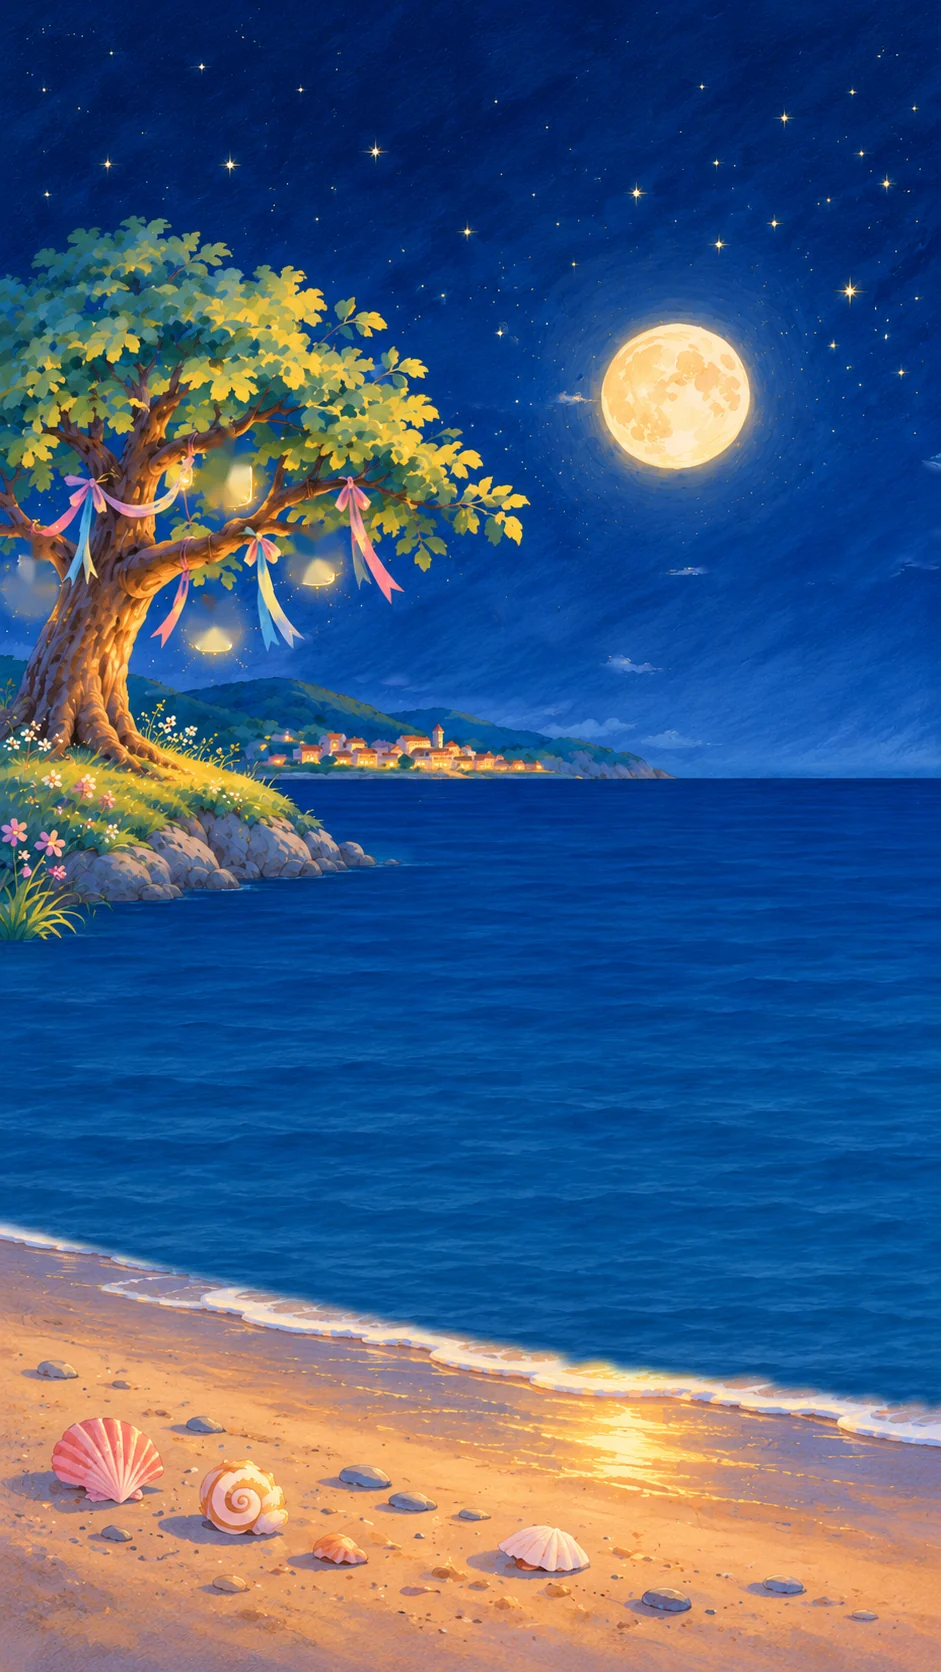
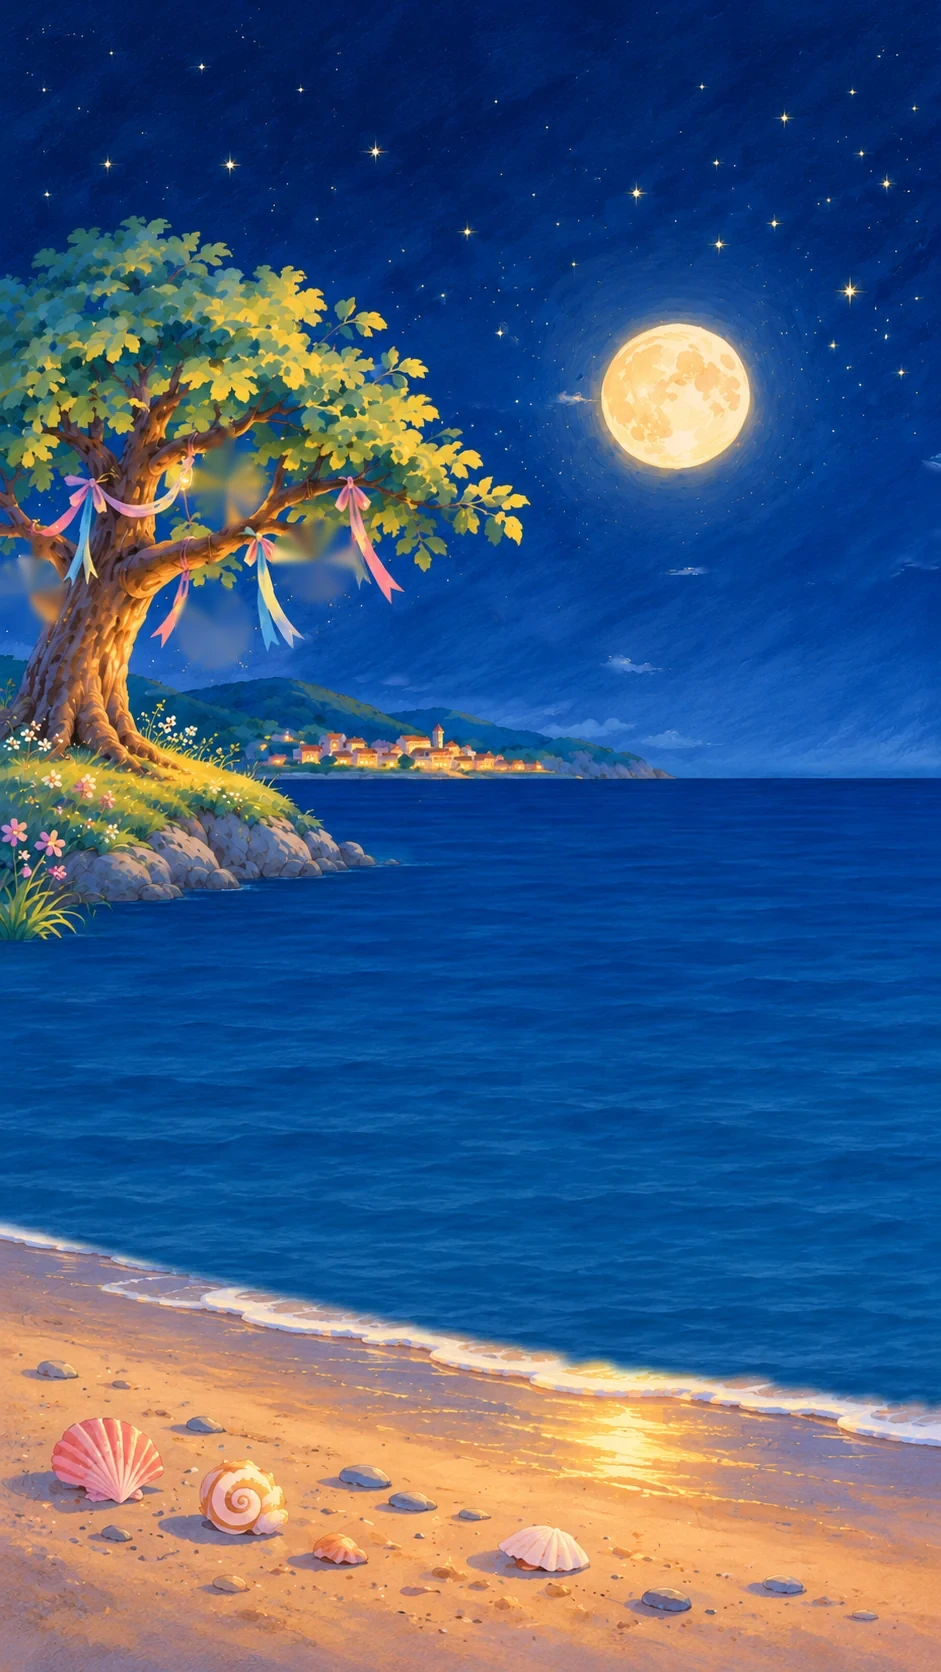
Mobile fixes: wishes load state, bird on Ch4, grounded Ch5 characters, Ch6 ribbons/jars/clouds
- Ch7: 'Gathering the wishes…' while loading; 'No wishes yet' only when there are none.
  Wishes are cached and prefetched on Ch6. 'Add yours' opens the Leave a wish tab.
- Ch4: the flying ribbon is now a flapping bird.
- Ch5: Chihiro and No-Face stand on one step with contact shadows.
- Ch6: leftover jar smudges removed from the painting, ribbons flutter, clouds drift visibly.

diff --git a/src/scenes/WishesDesktop.jsx b/src/scenes/WishesDesktop.jsx
@@ -4,7 +4,7 @@ import React from 'react';
 import { gsap } from 'gsap';
 import { Link } from 'react-router-dom';
 import { css } from '../lib/css.js';
-import { getWishes } from '../lib/rsvpApi.js';
+import { getWishes, peekWishes } from '../lib/rsvpApi.js';
 import './WishesDesktop.css';
 
 export default class WishesDesktop extends React.Component {
@@ -13,12 +13,13 @@ export default class WishesDesktop extends React.Component {
   constructor(props) {
     super(props);
     /* wishes sent from Chapter 6, loaded from the Google Sheet (wishes.csv in local dev) */
-    this.wishes = [];
-    this.state = { i: 0 };
+    var known = peekWishes(); // already loaded (e.g. on Chapter 6): show them straight away
+    this.wishes = known ? known.slice().reverse() : []; /* newest first */
+    this.state = { i: 0, loaded: !!known };
     this.root = null; this.tweens = []; this.tries = 0;
   }
   componentDidMount() {
-    var selfW = this; getWishes().then(function (list) { if (selfW.gone) return; selfW.wishes = list.slice().reverse(); selfW.setState({ i: 0 }); }).catch(function () {});  /* newest first */ this.initTrailSoon(); this.boot(); }
+    var selfW = this; getWishes().then(function (list) { if (selfW.gone) return; var same = selfW.state.loaded && list.length === selfW.wishes.length; selfW.wishes = list.slice().reverse(); if (same) selfW.setState({ loaded: true }); else selfW.setState({ i: 0, loaded: true }); }).catch(function () { if (!selfW.gone) selfW.setState({ loaded: true }); });  /* newest first */ this.initTrailSoon(); this.boot(); }
   componentWillUnmount() { this.gone = true; if (this.onMove && this.root) { this.root.removeEventListener('pointermove', this.onMove); this.root.removeEventListener('pointerleave', this.onLeave); this.root.removeEventListener('pointerdown', this.onDown); } clearTimeout(this.retry); clearInterval(this.auto); if (this.io) this.io.disconnect(); this.tweens.forEach(function (t) { t.kill(); }); }
   reduced() { try { return window.matchMedia('(prefers-reduced-motion: reduce)').matches; } catch (e) { return false; } }
   /* the card flutters over like a page in the wind as it shows the next wish */
@@ -163,7 +164,7 @@ export default class WishesDesktop extends React.Component {
   initTrailSoon() { var self = this, tries = 0; (function go() { if (self.root && gsap) self.initTrail(); else if (tries++ < 30) setTimeout(go, 150); })(); }
 
   renderVals() {
-    var self = this, n = this.wishes.length, w = this.wishes[this.state.i] || { text: 'No wishes yet. Be the first to leave one!', name: 'Dylan' };
+    var self = this, n = this.wishes.length, w = this.wishes[this.state.i] || (this.state.loaded ? { text: 'No wishes yet. Be the first to leave one!', name: 'Dylan' } : { text: 'Gathering the wishes…', name: 'Dylan' });
     return {
       setRoot: function (el) { self.root = el; },
       goNext: function () { self.goNext(); },
@@ -260,7 +261,7 @@ export default class WishesDesktop extends React.Component {
               Chapter 7 of 8
             </p>
           </div>
-          <Link to="/rsvp" className="leave">
+          <Link to={{ pathname: '/rsvp', search: '?tab=wish' }} className="leave">
             Leave a wish
           </Link>
           <button className="next" type="button" onClick={v.goNext}>

diff --git a/src/scenes/RsvpMobile.jsx b/src/scenes/RsvpMobile.jsx
@@ -10,9 +10,12 @@ import './RsvpMobile.css';
 export default class RsvpMobile extends React.Component {
   static defaultProps = {};
 
+  // "Add yours" on Chapter 7 links here with ?tab=wish to open the Leave a wish tab
+  static openTab() { try { return new URLSearchParams(window.location.search).get('tab') === 'wish' ? 'wish' : 'rsvp'; } catch (e) { return 'rsvp'; } }
+
   constructor(props) {
     super(props);
-    this.state = { tab: 'rsvp', dir: 1, attend: 'yes', count: 1, sent: false, sentName: '', sentAttend: 'yes', sentCount: 1, err: '', werr: '', wishes: [] };
+    this.state = { tab: RsvpMobile.openTab(), dir: 1, attend: 'yes', count: 1, sent: false, sentName: '', sentAttend: 'yes', sentCount: 1, err: '', werr: '', wishes: [] };
     this.root = null;
     this.tweens = [];
     this.tries = 0;
@@ -95,7 +98,7 @@ export default class RsvpMobile extends React.Component {
   /* the shore at night: clouds drift, moonlight ripples, waves wash in, jars sway and glow, stars twinkle, wish-lights rise */
   ambient(g, q, qa, t) {
     var sf = q('.scenefit'), SW = sf ? sf.offsetWidth : 499, SH = sf ? sf.offsetHeight : 886, f = SH / 886;
-    t.push(g.to(q('.clouds'), { x: 24 * f, duration: 30, ease: 'sine.inOut', yoyo: true, repeat: -1 }));
+    t.push(g.to(q('.clouds'), { x: 46 * f, duration: 20, ease: 'sine.inOut', yoyo: true, repeat: -1 }));
     t.push(g.fromTo(q('.foam'), { x: 0, y: 0, opacity: 0.8 }, { x: -3 * f, y: 3 * f, opacity: 1, duration: 3.4, ease: 'sine.inOut', yoyo: true, repeat: -1 }));
     t.push(g.fromTo(q('.sea'), { y: 0 }, { y: 1.2 * f, duration: 3.4, ease: 'sine.inOut', yoyo: true, repeat: -1 }));
     // each jar swings on its own string, slightly out of step with the others
@@ -278,6 +281,11 @@ export default class RsvpMobile extends React.Component {
             <div className="ly sea" />
             <div className="ly sea2" />
             <div className="ly foam" />
+            {/* the ribbons on the tree flutter: short looping clips of just those bits of the painting */}
+            <i className="ribsway" style={{"left":"5.526%","top":"28.349%","width":"6.376%","height":"7.536%","backgroundImage":"url(/art/mobile/ch6m-ribbon-a.webp)"}} />
+            <i className="ribsway" style={{"left":"14.878%","top":"31.699%","width":"6.908%","height":"7.536%","backgroundImage":"url(/art/mobile/ch6m-ribbon-b.webp)"}} />
+            <i className="ribsway" style={{"left":"24.442%","top":"30.981%","width":"9.139%","height":"8.732%","backgroundImage":"url(/art/mobile/ch6m-ribbon-c.webp)"}} />
+            <i className="ribsway" style={{"left":"34.219%","top":"28.11%","width":"9.883%","height":"8.971%","backgroundImage":"url(/art/mobile/ch6m-ribbon-d.webp)"}} />
             <span className="jglow" style={{"left":"24.12%","top":"28.46%"}} />
             <span className="jglow" style={{"left":"3.19%","top":"34.90%"}} />
             <span className="jglow" style={{"left":"33.53%","top":"32.82%"}} />

diff --git a/src/scenes/WishesMobile.jsx b/src/scenes/WishesMobile.jsx
@@ -4,7 +4,7 @@ import React from 'react';
 import { gsap } from 'gsap';
 import { Link } from 'react-router-dom';
 import { css } from '../lib/css.js';
-import { getWishes } from '../lib/rsvpApi.js';
+import { getWishes, peekWishes } from '../lib/rsvpApi.js';
 import './WishesMobile.css';
 
 export default class WishesMobile extends React.Component {
@@ -13,12 +13,13 @@ export default class WishesMobile extends React.Component {
   constructor(props) {
     super(props);
     /* wishes sent from Chapter 6, loaded from the Google Sheet (wishes.csv in local dev) */
-    this.wishes = [];
-    this.state = { i: 0 };
+    var known = peekWishes(); // already loaded (e.g. on Chapter 6): show them straight away
+    this.wishes = known ? known.slice().reverse() : []; /* newest first */
+    this.state = { i: 0, loaded: !!known };
     this.root = null; this.tweens = []; this.tries = 0;
   }
   componentDidMount() {
-    var selfW = this; getWishes().then(function (list) { if (selfW.gone) return; selfW.wishes = list.slice().reverse(); selfW.setState({ i: 0 }); }).catch(function () {});  /* newest first */ this.initTrailSoon(); this.fit(); this.boot(); }
+    var selfW = this; getWishes().then(function (list) { if (selfW.gone) return; var same = selfW.state.loaded && list.length === selfW.wishes.length; selfW.wishes = list.slice().reverse(); if (same) selfW.setState({ loaded: true }); else selfW.setState({ i: 0, loaded: true }); }).catch(function () { if (!selfW.gone) selfW.setState({ loaded: true }); });  /* newest first */ this.initTrailSoon(); this.fit(); this.boot(); }
   /* scale the girl and her wish card to the screen: fit the width, and leave room for the title above and the footer below */
   fit() {
     var self = this, r = this.root;
@@ -181,7 +182,7 @@ export default class WishesMobile extends React.Component {
   initTrailSoon() { var self = this, tries = 0; (function go() { if (self.root && gsap) self.initTrail(); else if (tries++ < 30) setTimeout(go, 150); })(); }
 
   renderVals() {
-    var self = this, n = this.wishes.length, w = this.wishes[this.state.i] || { text: 'No wishes yet. Be the first to leave one!', name: 'Dylan' };
+    var self = this, n = this.wishes.length, w = this.wishes[this.state.i] || (this.state.loaded ? { text: 'No wishes yet. Be the first to leave one!', name: 'Dylan' } : { text: 'Gathering the wishes…', name: 'Dylan' });
     return {
       setRoot: function (el) { self.root = el; },
       goNext: function () { self.goNext(); },
@@ -280,7 +281,7 @@ export default class WishesMobile extends React.Component {
               Chapter 7 of 8
             </p>
           </div>
-          <Link to="/rsvp" className="leave">
+          <Link to={{ pathname: '/rsvp', search: '?tab=wish' }} className="leave">
             Add yours
           </Link>
           <button className="next" type="button" onClick={v.goNext}>

diff --git a/src/scenes/DressCodeMobile.jsx b/src/scenes/DressCodeMobile.jsx
@@ -72,8 +72,9 @@ export default class DressCodeMobile extends React.Component {
     Array.prototype.forEach.call(qa('.lantern'), function (l, i) {
       t.push(g.fromTo(l, { opacity: 0.55, scale: 0.9 }, { opacity: 1, scale: 1.12, duration: 1.8 + i * 0.4, ease: 'sine.inOut', yoyo: true, repeat: -1 }));
     });
-    t.push(g.fromTo(q('.rb1'), { x: -90, y: 70, rotation: -10 }, { x: W + 30, y: 30, rotation: 20, duration: 24, ease: 'sine.inOut', repeat: -1, repeatDelay: 6 }));
-    t.push(g.to(q('.rb1'), { scaleY: -1, duration: 1.6, ease: 'sine.inOut', yoyo: true, repeat: -1 }));
+    t.push(g.fromTo(q('.rb1'), { x: -60, y: 118 }, { x: W + 30, y: 86, duration: 16, ease: 'none', repeat: -1, repeatDelay: 7 }));
+    // a little bird crosses the sky, bobbing gently as it flaps
+    t.push(g.fromTo(q('.rb1 svg'), { y: -3, rotation: -4 }, { y: 4, rotation: 3, duration: 1.3, ease: 'sine.inOut', yoyo: true, repeat: -1 }));
   }
   /* storybook page turn to Chapter 5: curls from the bottom-right corner, revealing the lantern village */
   goNext() {
@@ -193,9 +194,16 @@ export default class DressCodeMobile extends React.Component {
             </div>
             <div className="lyr clouds" />
           </div>
-          <span className="ribbon rb1">
-            <svg viewBox="0 0 90 40">
-              <path d="M2 20 C14 2 26 38 40 20 S 66 2 88 22" fill="none" stroke="#EFA9B8" style={{"strokeWidth":"4","strokeLinecap":"round"}} />
+          <span className="bird rb1" aria-hidden="true">
+            <svg viewBox="0 0 60 32">
+              <g className="wing far"><path d="M30 16 C26 7 19 3 11 3 C17 7 22 11 27 17 Z" fill="#7C7FA6" /></g>
+              <path d="M21 17.5 L12 13.5 L14.5 17.5 L12 21.5 Z" fill="#4C4E72" />
+              <ellipse cx="29" cy="18" rx="9.5" ry="4.2" fill="#4C4E72" />
+              <path d="M22 19.5 C27 23 34 22.5 37 19.5 C33 21 27 21 22 19.5 Z" fill="#F4E6D8" />
+              <circle cx="38.5" cy="16" r="3.4" fill="#4C4E72" />
+              <path d="M41.5 15.4 L45.5 16.4 L41.5 17.4 Z" fill="#E8B35A" />
+              <circle cx="39.6" cy="15.2" r=".7" fill="#F4E6D8" />
+              <g className="wing near"><path d="M31 16 C28 5 21 0 12 0 C19 5 24 11 28 18 Z" fill="#5A5D86" /></g>
             </svg>
           </span>
         </div>

diff --git a/src/lib/rsvpApi.js b/src/lib/rsvpApi.js
@@ -77,11 +77,36 @@ export async function sendWish(wish) {
   else if (import.meta.env.DEV) data = await getJson(WISH_DEV, { method: 'POST', headers: { 'Content-Type': 'application/json' }, body });
   else throw new Error('Wishes aren\'t connected yet. Please try again later.');
   if (!data.ok) throw new Error(str(data.error) || 'We couldn\'t send your wish. Please try again.');
+  const saved = cleanWish({ name: str(data.name) || str(w.name), text: str(data.text) || str(w.text) });
+  if (saved && wishCache) wishCache = { at: wishCache.at, list: wishCache.list.concat(saved) };
   return { ...data, name: str(data.name), text: str(data.text) };
 }
 
+// The wishes are fetched once and kept for a minute, so Chapter 7 can show them straight away
+// (Chapter 6 starts the fetch). A wish sent from this browser is added to the kept list.
+let wishCache = null; // { at, list }
+let wishInflight = null;
+const WISH_TTL = 60000;
+
+// the wishes already loaded (oldest first), or null if they haven't been fetched yet
+export function peekWishes() {
+  return wishCache ? wishCache.list : null;
+}
+
 // never throws: if the wishes can't be loaded, the chapter just shows its "no wishes yet" card
-export async function getWishes() {
+export function getWishes() {
+  if (wishCache && Date.now() - wishCache.at < WISH_TTL) return Promise.resolve(wishCache.list);
+  if (!wishInflight) {
+    wishInflight = fetchWishes().then((list) => {
+      wishCache = { at: Date.now(), list };
+      wishInflight = null;
+      return list;
+    });
+  }
+  return wishInflight;
+}
+
+async function fetchWishes() {
   try {
     let data;
     if (ENDPOINT) data = await getJson(`${ENDPOINT}?action=wishes`);

diff --git a/src/scenes/DressCodeMobile.css b/src/scenes/DressCodeMobile.css
@@ -25,9 +25,12 @@ clip-path:polygon(70.563% 46.950%, 76.089% 46.770%, 76.939% 53.828%, 77.790% 59.
 -webkit-mask-size:100% 32px;mask-size:100% 32px;animation:DressCodeMobile-flow 0.9s linear infinite}
 @keyframes DressCodeMobile-flow{from{-webkit-mask-position:0 0;mask-position:0 0}to{-webkit-mask-position:0 32px;mask-position:0 32px}}
 .dc-DressCodeMobile .lantern{position:absolute;width:7.4%;aspect-ratio:1;transform:translate(-50%,-50%);border-radius:50%;background:radial-gradient(circle,rgba(255,226,150,.85),rgba(255,200,110,.3) 40%,rgba(255,200,110,0) 70%);mix-blend-mode:screen}
-.dc-DressCodeMobile .ribbon{position:absolute;left:0;top:0}
-.dc-DressCodeMobile .ribbon svg{display:block;width:100%;height:100%;overflow:visible}
-.dc-DressCodeMobile .ribbon{width:70px;height:30px}
+.dc-DressCodeMobile .bird{position:absolute;left:0;top:0;width:50px;height:27px;pointer-events:none}
+.dc-DressCodeMobile .bird svg{display:block;width:100%;height:100%;overflow:visible;filter:drop-shadow(0 1px 1.5px rgba(40,30,70,.25))}
+.dc-DressCodeMobile .bird .wing{transform-box:view-box;transform-origin:30px 16px;animation:dc4-flap .34s ease-in-out infinite alternate}
+.dc-DressCodeMobile .bird .wing.far{animation-delay:-.05s}
+@keyframes dc4-flap{from{transform:scaleY(1)}to{transform:scaleY(-.5)}}
+@media (prefers-reduced-motion: reduce){.dc-DressCodeMobile .bird .wing{animation:none}}
 .dc-DressCodeMobile .topshade{background:linear-gradient(to bottom,rgba(70,50,100,.45) 0%,rgba(70,50,100,.12) 9%,rgba(70,50,100,0) 14%)}
 
 .dc-DressCodeMobile .script{font-family:'Pinyon Script',cursive;font-weight:400}

diff --git a/src/scenes/DosDontsMobile.css b/src/scenes/DosDontsMobile.css
@@ -83,5 +83,9 @@ background-position:0 0,clamp(calc(100cqw - var(--sw)), calc(50cqw - var(--sw) *
 /* Chihiro and No-Face stand on the stone steps at the left end of the bridge. On phones the bridge deck
    sits under the card's top edge, so the steps keep them fully visible, feet included. % of the painting. */
 .dc-DosDontsMobile .chihiro,.dc-DosDontsMobile .noface{position:absolute;height:auto;pointer-events:none;user-select:none}
-.dc-DosDontsMobile .noface{left:32.944%;top:35.407%;width:7.545%;filter:drop-shadow(0 4px 3px rgba(30,30,60,.25))}
-.dc-DosDontsMobile .chihiro{left:29.649%;top:37.799%;width:4.888%;filter:drop-shadow(0 4px 3px rgba(30,30,60,.25))}
+.dc-DosDontsMobile .noface{left:32.944%;top:36.12%;width:7.545%;filter:drop-shadow(0 1px 2px rgba(30,30,60,.3))}
+.dc-DosDontsMobile .chihiro{left:29.649%;top:37.92%;width:4.888%;filter:drop-shadow(0 1px 2px rgba(30,30,60,.3))}
+/* soft contact shadows on the step, so both stand on it rather than hover */
+.dc-DosDontsMobile .footshadow{position:absolute;border-radius:50%;background:rgba(18,14,38,.85);filter:blur(3px);pointer-events:none}
+.dc-DosDontsMobile .footshadow.nf{left:31.6%;top:48.45%;width:10.6%;height:1.6%}
+.dc-DosDontsMobile .footshadow.ch{left:30.0%;top:48.9%;width:5.2%;height:1.25%}

diff --git a/src/scenes/RsvpMobile.css b/src/scenes/RsvpMobile.css
@@ -17,6 +17,8 @@ top:clamp(calc(100cqh - var(--sh)), calc(25cqh - var(--sh) * 0.30), 0px)}
 @keyframes RsvpMobile-ripple{from{-webkit-mask-position:0 0;mask-position:0 0}to{-webkit-mask-position:0 18px;mask-position:0 18px}}
 .dc-RsvpMobile .foam{background-image:url(/art/mobile/ch6m-foam.webp)}
 .dc-RsvpMobile .clouds{background-image:url(/art/mobile/ch6m-clouds.webp)}
+/* fluttering ribbons: animated tiles cut from the painting, lined up exactly over it */
+.dc-RsvpMobile .ribsway{position:absolute;background-size:100% 100%;background-repeat:no-repeat}
 /* each glowing jar hangs on its own string and swings gently */
 .dc-RsvpMobile .jar{position:absolute;background-size:100% 100%;background-repeat:no-repeat;transform-origin:50% 0;will-change:transform}
 .dc-RsvpMobile .moonglow{position:absolute;left:71.73%;top:24.04%;width:38%;aspect-ratio:1;transform:translate(-50%,-50%);border-radius:50%;background:radial-gradient(circle,rgba(255,240,190,.38),rgba(255,230,170,.12) 45%,rgba(255,230,170,0) 70%);mix-blend-mode:screen}

diff --git a/src/scenes/RsvpDesktop.jsx b/src/scenes/RsvpDesktop.jsx
@@ -10,9 +10,12 @@ import './RsvpDesktop.css';
 export default class RsvpDesktop extends React.Component {
   static defaultProps = {};
 
+  // "Add yours" on Chapter 7 links here with ?tab=wish to open the Leave a wish tab
+  static openTab() { try { return new URLSearchParams(window.location.search).get('tab') === 'wish' ? 'wish' : 'rsvp'; } catch (e) { return 'rsvp'; } }
+
   constructor(props) {
     super(props);
-    this.state = { tab: 'rsvp', dir: 1, attend: 'yes', count: 1, sent: false, sentName: '', sentAttend: 'yes', sentCount: 1, err: '', werr: '', wishes: [] };
+    this.state = { tab: RsvpDesktop.openTab(), dir: 1, attend: 'yes', count: 1, sent: false, sentName: '', sentAttend: 'yes', sentCount: 1, err: '', werr: '', wishes: [] };
     this.root = null;
     this.tweens = [];
     this.tries = 0;

diff --git a/src/scenes/DosDontsMobile.jsx b/src/scenes/DosDontsMobile.jsx
@@ -195,6 +195,8 @@ export default class DosDontsMobile extends React.Component {
           <div className="scenefit">
             <div className="ly plate" />
             <div className="ly stream2" />
+            <span className="footshadow nf" aria-hidden="true" />
+            <span className="footshadow ch" aria-hidden="true" />
             <img className="noface" src="/art/mobile/ch5m-noface.webp" alt="" draggable="false" />
             <img className="chihiro" src="/art/mobile/ch5m-chihiro.webp" alt="" draggable="false" />
             <span className="mistb m1" style={{"left":"58%","top":"37%","width":"50%","height":"9%"}} />
